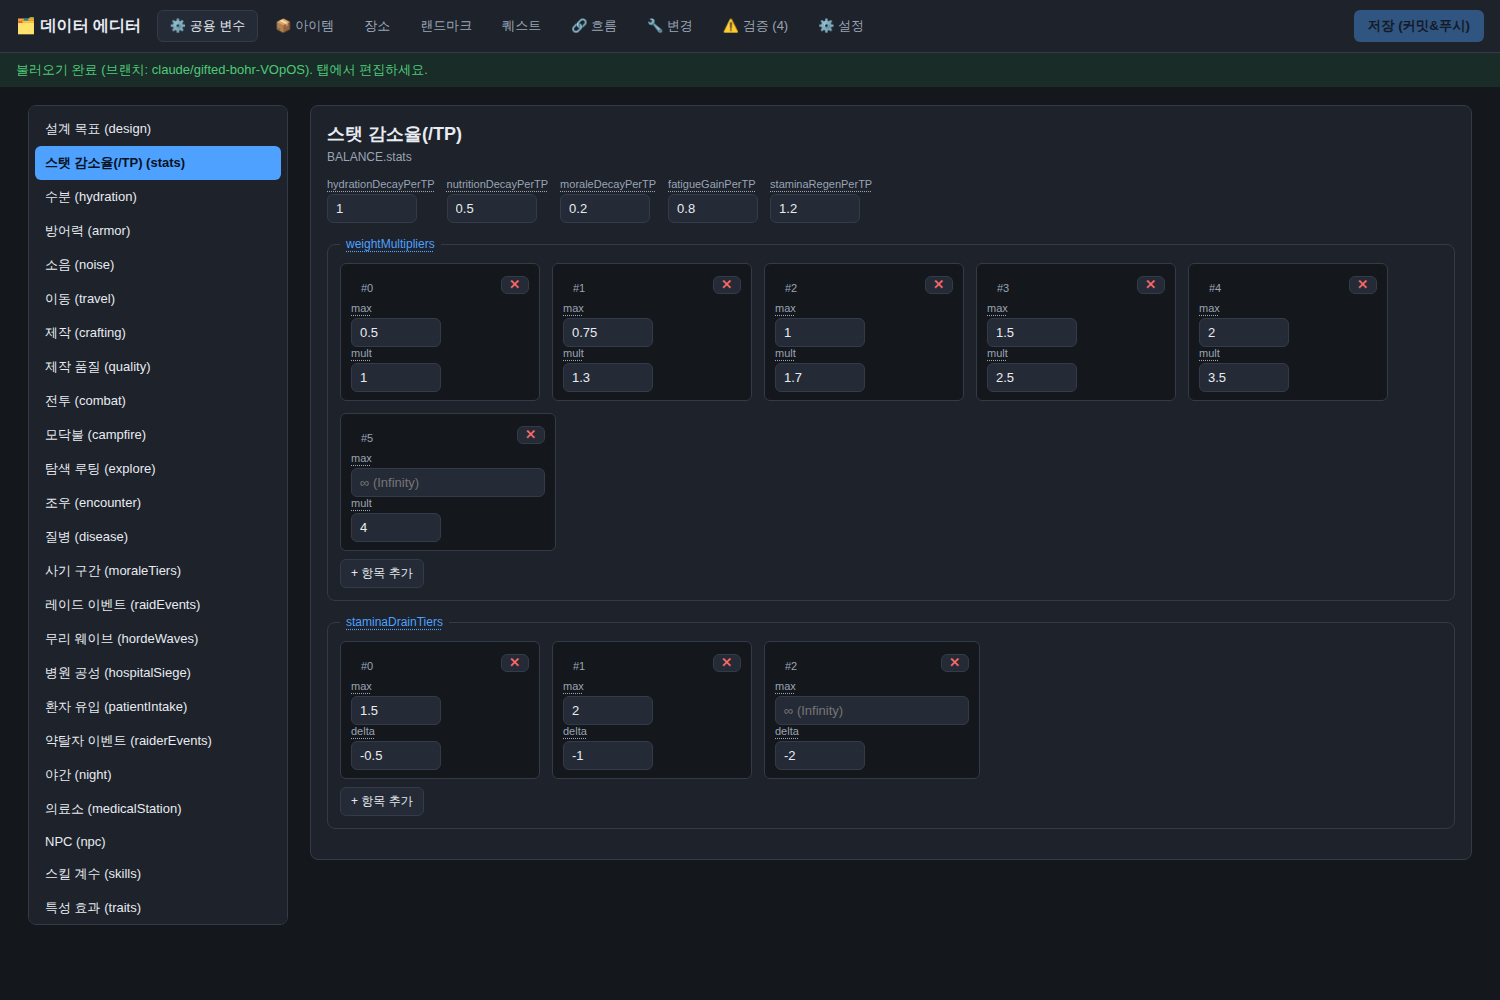
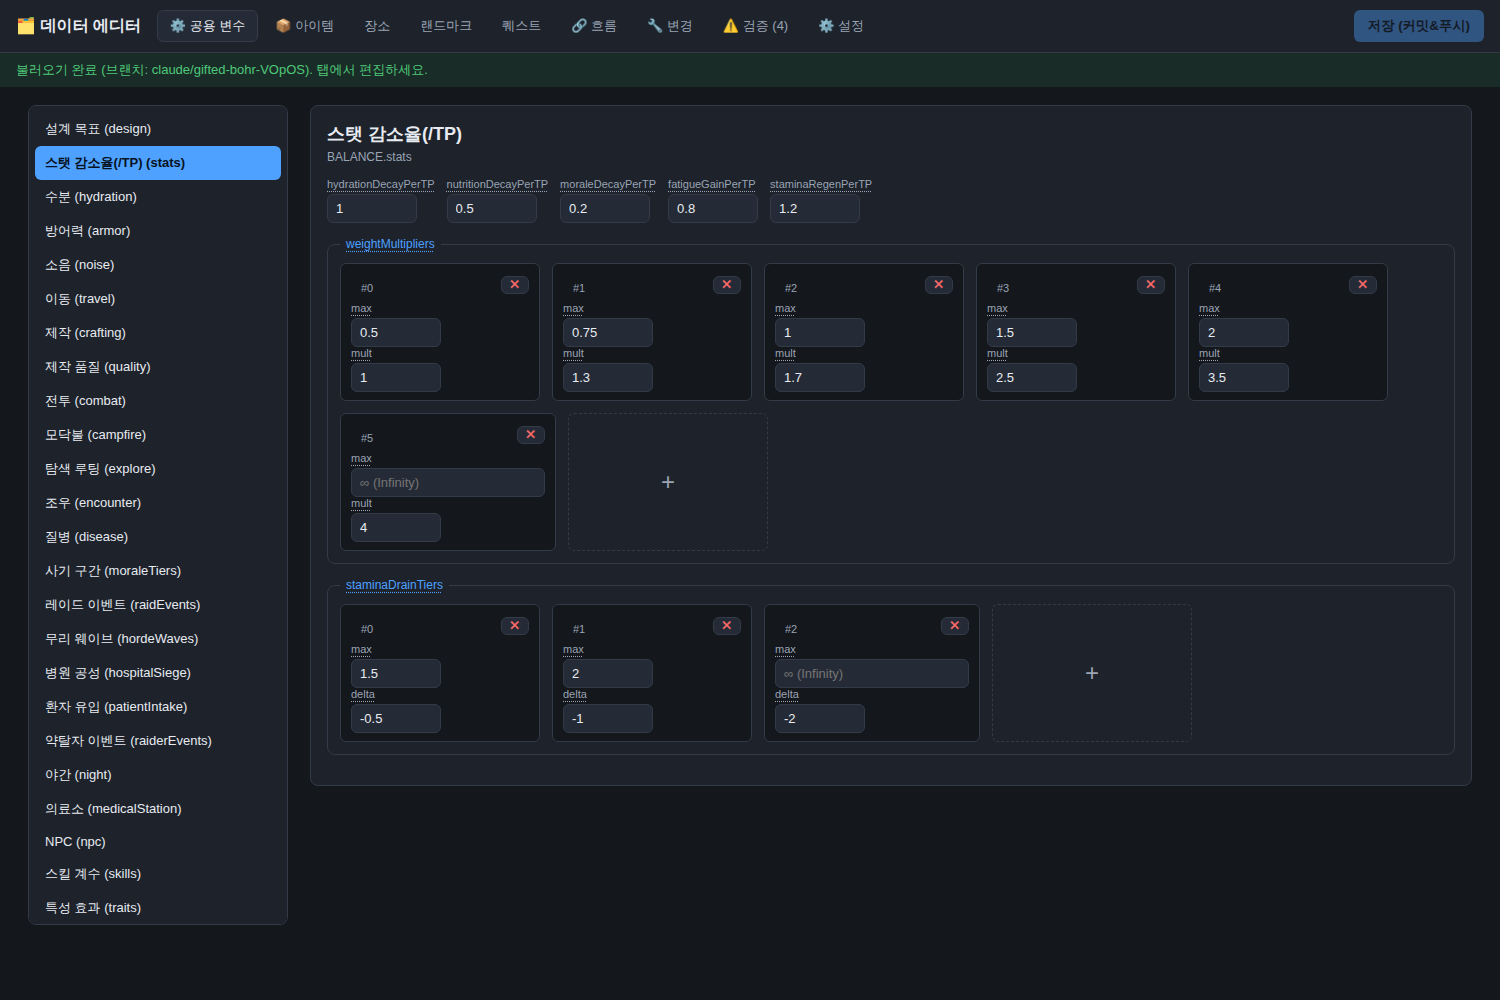
style(editor): 항목 추가 버튼을 다음 카드 자리에 카드 크기 +로
- 객체 배열: 큰 '+ 항목 추가' 버튼 → 다음 칸의 카드 크기 점선 + 타일
  (0개일 때도 카드 1개 크기)
- 스칼라 배열: '+ 추가' → 행 끝 인풋 한 칸 크기의 작은 +

https://claude.ai/code/session_0171rLpWkCpFge5m4hE4mxvB

Changed region(s): [[0.3373, 0.62, 0.644, 0.744], [0.2147, 0.558, 0.3067, 0.744], [0.2147, 0.775, 0.3067, 0.837]]

diff --git a/tools/editor/editor.js b/tools/editor/editor.js
@@ -1148,9 +1148,11 @@ function objNode(obj, key, depth, fileKey, helpFn) {
           onclick: () => { v.splice(i, 1); markDirty(fileKey); rerenderDetail(); } });
         row.append(el('div', { class: 'field' }, [el('label', { text: `[${i}]` }), el('div', { class: 'inline-row' }, [inp, rm])]));
       });
-      const add = el('button', { class: 'ghost row-add', text: '+ 추가',
+      // 마지막 칸에 작은 + (인풋 한 칸 크기)
+      const add = el('button', { class: 'ghost add-inline', text: '+', title: '추가',
         onclick: () => { v.push(typeof v[0] === 'number' ? 0 : ''); markDirty(fileKey); rerenderDetail(); } });
-      return el('div', { class: 'field grow' }, [labelEl(key, helpFn(key)), row, add]);
+      row.append(el('div', { class: 'field' }, [el('label', { text: ' ' }), add]));
+      return el('div', { class: 'field grow' }, [labelEl(key, helpFn(key)), row]);
     }
     // 객체 배열 → 각 원소를 가로 카드로 + 삭제/추가
     const fs = el('fieldset', {}, el('legend', {}, [labelEl(key, helpFn(key))]));
@@ -1165,9 +1167,10 @@ function objNode(obj, key, depth, fileKey, helpFn) {
       for (const k of Object.keys(item)) sub.append(objNode(item, k, depth + 1, fileKey, helpFn));
       boxes.append(sub);
     });
-    fs.append(boxes);
-    fs.append(el('button', { class: 'ghost row-add', text: '+ 항목 추가',
+    // 다음 카드 자리에 카드 크기의 + 타일
+    boxes.append(el('button', { class: 'bal-sub add-card', text: '+', title: '항목 추가',
       onclick: () => { v.push(v.length ? structuredClone(v[v.length - 1]) : {}); markDirty(fileKey); rerenderDetail(); } }));
+    fs.append(boxes);
     return fs;
   }
   // 중첩 객체 → 박스 + 재귀

diff --git a/tools/editor/style.css b/tools/editor/style.css
@@ -99,6 +99,16 @@ fieldset legend { color: var(--accent); font-size: 12px; padding: 0 6px; }
 .sub-head { display: flex; align-items: center; justify-content: space-between; gap: 10px; margin-bottom: 4px; }
 .inline-row { display: flex; align-items: center; gap: 4px; }
 button.ghost.mini { padding: 2px 7px; font-size: 12px; line-height: 1; }
+/* 다음 카드 자리에 들어가는 + 타일 (기존 카드와 동일 크기) */
+.add-card {
+  min-width: 200px; min-height: 64px; flex: 0 1 auto;
+  background: transparent; border: 1px dashed var(--border); color: var(--muted);
+  border-radius: 6px; font-size: 24px; cursor: pointer;
+  display: flex; align-items: center; justify-content: center;
+}
+.add-card:hover { border-color: var(--accent); color: var(--accent); }
+/* 스칼라 배열 끝 + (인풋 한 칸 크기) */
+button.ghost.add-inline { width: 72px; font-size: 16px; line-height: 1; padding: 5px 0; }
 
 table.loot { width: 100%; border-collapse: collapse; margin-top: 6px; }
 table.loot th { text-align: left; font-size: 11px; color: var(--muted); font-weight: 500; padding: 5px 8px; }
